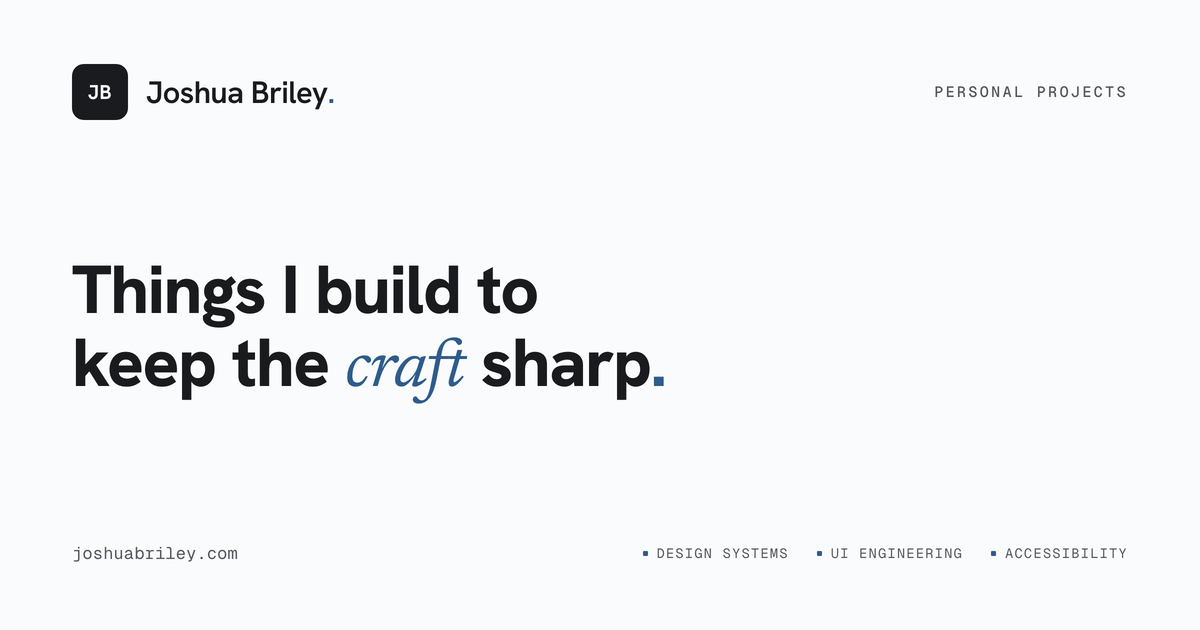
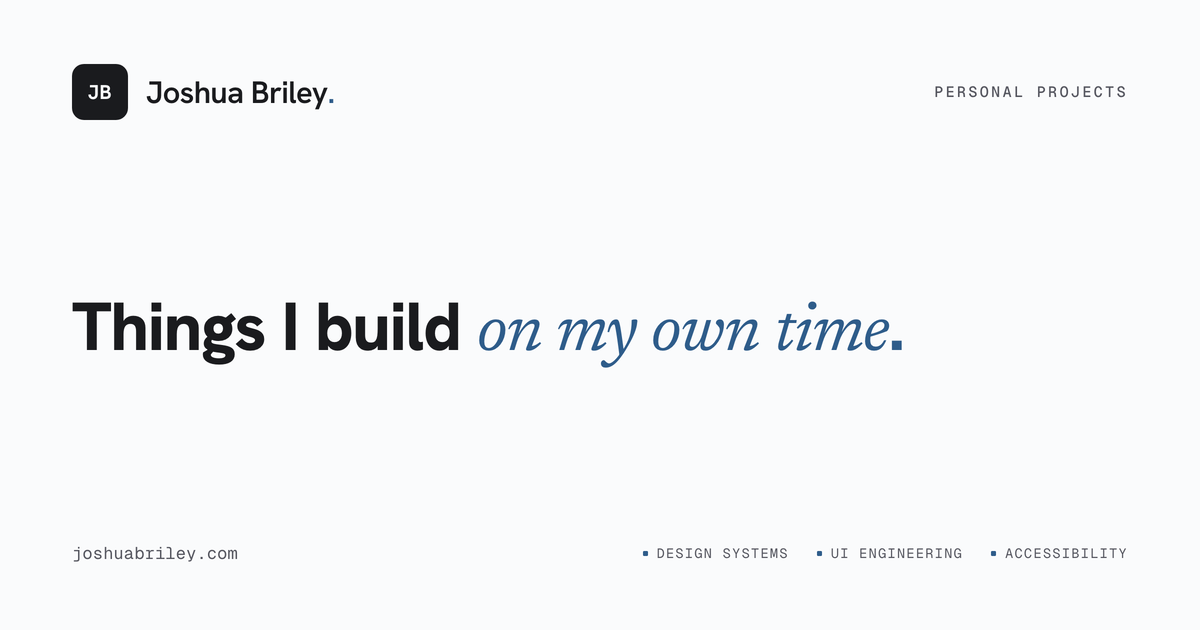
Content updates.

Changed region(s): [[0.0617, 0.4222, 0.7708, 0.6333]]

diff --git a/src/lib/project-pages.ts b/src/lib/project-pages.ts
@@ -39,7 +39,7 @@ export const projectPages = {
   },
   logatot: {
     name: 'Logatot', kind: 'Product work · Home child care',
-    headline: 'Child care paperwork,', emphasis: 'handled by voice.',
+    headline: 'Helping child care providers', emphasis: 'log their day by voice.',
     intro: 'Providers can record meals, naps, and attendance while caring for children. I led front-end work on a three-developer team, connecting voice interactions, recoverable errors, and shared components in a paid product.',
     facts: [
       { label: 'My role', value: 'Lead front end and interaction design' },
@@ -57,7 +57,7 @@ export const projectPages = {
   },
   vmspark: {
     name: 'VMSpark', kind: 'Client work · Recruiting operations',
-    headline: 'Rebuilding the interface,', emphasis: 'keeping the system running.',
+    headline: 'Rebuilding the interface', emphasis: 'without stopping the pipeline.',
     intro: 'VMSpark processes thousands of job listings and sends them to more than a dozen hiring systems. I audited and rebuilt the admin interface in stages, preserving the pipeline and the workflows operators already knew.',
     facts: [
       { label: 'My role', value: 'Product design and UI engineering' },
@@ -76,7 +76,7 @@ export const projectPages = {
   },
   rudiment: {
     name: 'Rudiment UI', kind: 'Personal project · Component architecture',
-    headline: 'React components,', emphasis: 'working together.',
+    headline: 'A React component library', emphasis: 'I designed and built.',
     intro: 'A token-driven React component library with accessible interaction patterns and live Storybook documentation. Explore individual components and variants, then try the project board, sprint dashboard, and storefront built from them.',
     facts: [
       { label: 'My role', value: 'Designer and engineer' },

diff --git a/src/lib/selected-work.ts b/src/lib/selected-work.ts
@@ -3,7 +3,7 @@ export const selectedWork = [
   {
     name: 'Rudiment UI', href: '/personal-projects/rudiment-ui/',
     kind: 'Personal project · React component library',
-    title: 'React components, working together.',
+    title: 'An accessible React component library I designed and built.',
     summary: 'Accessible React components and a three-tier token system, documented in Storybook. Inspect component APIs and variants, then try the project board, dashboard, and storefront built from the library.',
     ownership: 'Designer and engineer', evidence: 'Tokens, APIs, accessibility, Storybook documentation',
     image: '/images/projects/rudiment-ui/rudiment-board.webp',
@@ -21,7 +21,7 @@ export const selectedWork = [
   },
   {
     name: 'Logatot', href: '/projects/logatot/', kind: 'Product work · Home child care',
-    title: 'Less paperwork. More time with the actual children.',
+    title: 'Cutting paperwork for home child care providers.',
     summary: 'A voice-controlled platform for recording meals, naps, and attendance during the day. I led front-end work on a three-developer team, from interaction design to reusable components.',
     ownership: 'Lead front end and interaction design', evidence: 'Voice repair flows, shared components, live state',
     image: '/images/projects/logatot/wires-and-flows/01-voiceboard.svg',

diff --git a/src/lib/nav.ts b/src/lib/nav.ts
@@ -6,9 +6,10 @@ export interface NavLink {
 }
 
 export const PRIMARY_NAV: NavLink[] = [
-  { href: '/projects/', label: 'Work' },
-  { href: '/about/', label: 'About' },
-  { href: '/resume/', label: 'Résumé' },
+  { href: '/', label: 'Home' },
+  { href: '/projects/', label: 'Projects' },
+  { href: '/about/', label: 'Biography' },
+  { href: '/blog/', label: 'Articles' },
   { href: '/contact/', label: 'Contact' },
 ]
 
@@ -16,17 +17,18 @@ export const FOOTER_NAV: { heading: string; links: NavLink[] }[] = [
   {
     heading: 'Explore',
     links: [
-      { href: '/projects/', label: 'Work' },
-      { href: '/blog/', label: 'Writing' },
-      { href: '/tools/', label: 'Tools' },
+      { href: '/projects/', label: 'Projects' },
+      { href: '/about/', label: 'Biography' },
+      { href: '/blog/', label: 'Articles' },
     ],
   },
   {
-    heading: 'About & experience',
+    heading: 'More',
     links: [
-      { href: '/about/', label: 'About' },
+      { href: '/', label: 'Home' },
       { href: '/resume/', label: 'Résumé' },
-      { href: '/testimonials/', label: 'Recommendations' },
+      { href: '/tools/', label: 'Tools' },
+      { href: '/testimonials/', label: 'Feedback' },
       { href: '/personal-projects/', label: 'Personal projects' },
     ],
   },

diff --git a/tests/e2e/mobile-navigation.spec.ts b/tests/e2e/mobile-navigation.spec.ts
@@ -19,9 +19,13 @@ test('mobile navigation is a named modal with usable destinations and contained 
   const close = dialog.getByRole('button', { name: 'Close', exact: true });
   await expect(close).toBeFocused();
   await expect(dialog.getByRole('link', { name: 'About', exact: true })).toHaveAttribute('aria-current', 'page');
-  for (const name of ['Writing', 'Tools', 'Recommendations', 'Personal projects', 'Contact me']) {
+  for (const name of ['Résumé', 'Tools', 'Recommendations', 'Personal projects', 'Contact me']) {
     await expect(dialog.getByRole('link', { name, exact: true })).toBeVisible();
   }
+  // The large links mirror the footer's lead group.
+  const footerLead = await page.locator('.footer-nav--lead a').allTextContents();
+  const mobileLead = await dialog.locator('.mobile-primary a').allTextContents();
+  expect(mobileLead.map(t => t.replace('↗', '').trim())).toEqual(footerLead.map(t => t.replace('↗', '').trim()));
   await expect(page.locator('html')).toHaveClass(/nav-open/);
   expect(await page.locator('html').evaluate(el => getComputedStyle(el).overflowY)).toBe('hidden');
   // Attempts to focus the background remain inside the native modal.
